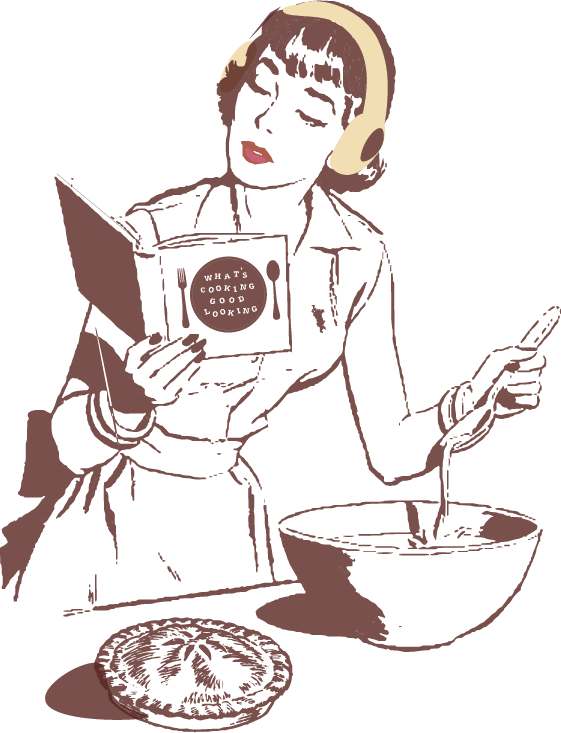
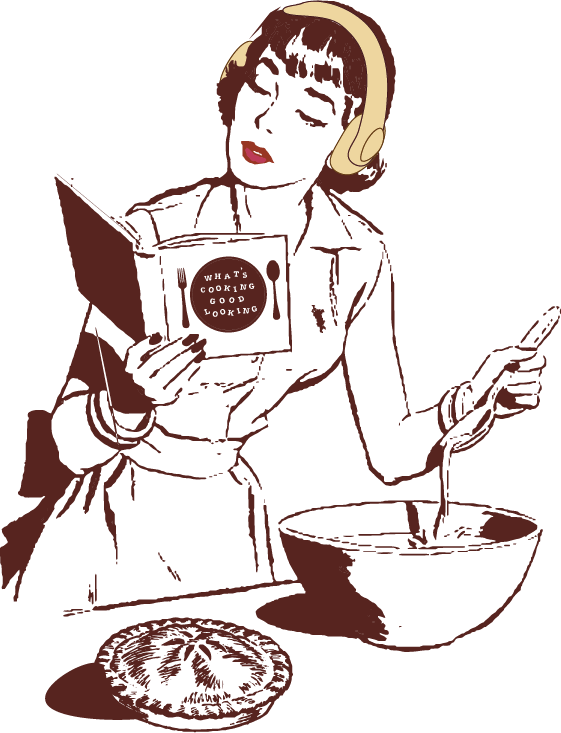
add new asset and title

diff --git a/src/scripts.js b/src/scripts.js
@@ -6,6 +6,7 @@ import Recipe from "./classes/Recipe";
 import Ingredient from "./classes/Ingredient-class";
 import User from "./classes/User";
 import "./images/turing-logo.png";
+import "./images/Asset0.png";
 import "./images/AndrewProfile.png";
 import "./images/BrettProfile.png";
 import "./images/CourtneyProfile.png";
@@ -167,32 +168,29 @@ function displayARecipe() {
   currentPage = "specific";
 }
 function displaySearchRecipes() {
-  
   let foodOptions;
   let userInput = searchButtonInput.value.toLowerCase();
-  
-  if(currentPage === 'saved') {
+
+  if (currentPage === "saved") {
     foodOptions = currentUser.recipesToCook;
-    
-  }
-  else { 
-    displayAllRecipes()
-    foodOptions = allRecipes.listOfAllRecipes 
-  }
-  const recipeFilterName = foodOptions.filter(recipe => recipe.name.toLowerCase() === userInput )
-  const recipeFilterByTag = createRecipesOfTag(userInput,foodOptions)
-    
-  if(recipeFilterName.length === 0 && recipeFilterByTag.length !== 0 ) {
-    displayRecipeThumbnails(recipeFilterByTag,'','')
-    
-  } 
-  else if (recipeFilterName.length !== 0 && recipeFilterByTag.length === 0) {
-    displayRecipeThumbnails(recipeFilterName,'','')
-    
   } else {
-    allRecipeThumbnailsSection.innerHTML = "<h3> Sorry your dish can't be found ... order out!</h3>";
+    displayAllRecipes();
+    foodOptions = allRecipes.listOfAllRecipes;
   }
-  searchButtonInput.innerText = '';
+  const recipeFilterName = foodOptions.filter(
+    (recipe) => recipe.name.toLowerCase() === userInput
+  );
+  const recipeFilterByTag = createRecipesOfTag(userInput, foodOptions);
+
+  if (recipeFilterName.length === 0 && recipeFilterByTag.length !== 0) {
+    displayRecipeThumbnails(recipeFilterByTag, "", "");
+  } else if (recipeFilterName.length !== 0 && recipeFilterByTag.length === 0) {
+    displayRecipeThumbnails(recipeFilterName, "", "");
+  } else {
+    allRecipeThumbnailsSection.innerHTML =
+      "<h3> Sorry your dish can't be found ... order out!</h3>";
+  }
+  searchButtonInput.innerText = "";
 }
 //Home Page FUNCTIONS --------
 //All Recipes Page FUNCTIONS --------
@@ -273,9 +271,9 @@ function displaySavedRecipesPage() {
 }
 
 function deleteSavedRecipe(event) {
-  if (event.target.classList.contains('delete-recipe')) {
-    currentUser.removeRecipe(+event.target.parentElement.parentElement.id)
-    displayRecipeThumbnails(currentUser.recipesToCook, '🗑', 'delete-recipe')
+  if (event.target.classList.contains("delete-recipe")) {
+    currentUser.removeRecipe(+event.target.parentElement.parentElement.id);
+    displayRecipeThumbnails(currentUser.recipesToCook, "🗑", "delete-recipe");
   }
 }
 

diff --git a/src/styles.css b/src/styles.css
@@ -1,31 +1,32 @@
 /* colors:
- red = 149, 54, 35  
- brown = 87,36, 41
- green = 145,147,109
- beige = 230, 205, 141
- forest green = 156,126, 68
+ red = 150, 53, 35  
+ brown = 88,46, 31
+ green = 156,126,68
+ beige = 233, 203, 144
+ light green = 146,146, 112
  */
 
 /* font-family: 'Abril Fatface', cursive;
  font-family: 'Playball', cursive;
  font-family: 'Playfair Display', serif; */
 
- body {
-   font-family: "Playfair Display", serif;
- }
+body {
+  font-family: "Playfair Display", serif;
+  background-image: url("./images/paper.png");
+}
 
- button {
+button {
   cursor: pointer;
- }
+}
 
- /* Navagation display */
+/* Navagation display */
 nav {
-   display: flex;
-    flex-direction: row;
-    border: solid;
-    align-items: stretch;
-    justify-content: space-between;
-   }
+  display: flex;
+  flex-direction: row;
+  border: solid;
+  align-items: stretch;
+  justify-content: space-between;
+}
 
 /* .welcome-wrapper {
    margin-left: 30px;
@@ -38,19 +39,47 @@ nav {
    margin-left: 8px;
  } */
 
- /* .welcome-wrapper and .user-wrapper are commented out because Courtney commented out those two associated HTML elements for now. We can add this back in if we decide to use the Welcome: User on our homepage. */
+/* .welcome-wrapper and .user-wrapper are commented out because Courtney commented out those two associated HTML elements for now. We can add this back in if we decide to use the Welcome: User on our homepage. */
 
 .nav-btns-wrapper {
-   width: 35rem;
-   margin-top: 5px;
-   margin-right: 20px;
-   height: 3rem;
-   display: flex;
-   align-items: center;
-   justify-content: space-around;
- }
+  width: 35rem;
+  margin-top: 5px;
+  margin-right: 20px;
+  height: 3rem;
+  display: flex;
+  align-items: center;
+  justify-content: space-around;
+}
 
- /* HomePage */
+/* HomePage */
+
+#title {
+  align-self: flex-start;
+  flex-wrap: wrap;
+  font-size: 90pt;
+  font-family: "Abril Fatface", cursive;
+  width: 900px;
+  margin-top: 30px;
+  margin-left: 65px;
+  color: rgb(150, 53, 35);
+}
+
+#logo {
+  height: 300px;
+  width: 400px;
+}
+
+.homepage-area {
+  display: flex;
+  flex-direction: column;
+  /* justify-content: space-evenly; */
+  height: 90vh;
+  background-image: url("./images/Asset1.png");
+  background-repeat: no-repeat;
+  background-position-x: 90%;
+  background-position-y: bottom;
+  background-size: 37%;
+}
 
 /* About Page section */
 
@@ -187,6 +216,6 @@ nav {
 }
 
 /* ~~End All/Saved Recipes CSS ~~ */
- .hide {
-   display: none;
- }
+.hide {
+  display: none;
+}

diff --git a/dist/index.html b/dist/index.html
@@ -39,8 +39,14 @@
         </div>
       </section>
     </nav>
-
-    <main class="homepage-area" id="homePage"></main>
+    <main class="homepage-area" id="homePage">
+      <h1 id="title">What's Cookin' Good Lookin'</h1>
+      <img
+        id="logo"
+        src="./images/Asset0.png"
+        alt="What's Cookin' Good Lookin' logo"
+      />
+    </main>
     <main class="hide about-page" id="aboutPage">
       <div class="about-paragraph">
         <p id="about">
